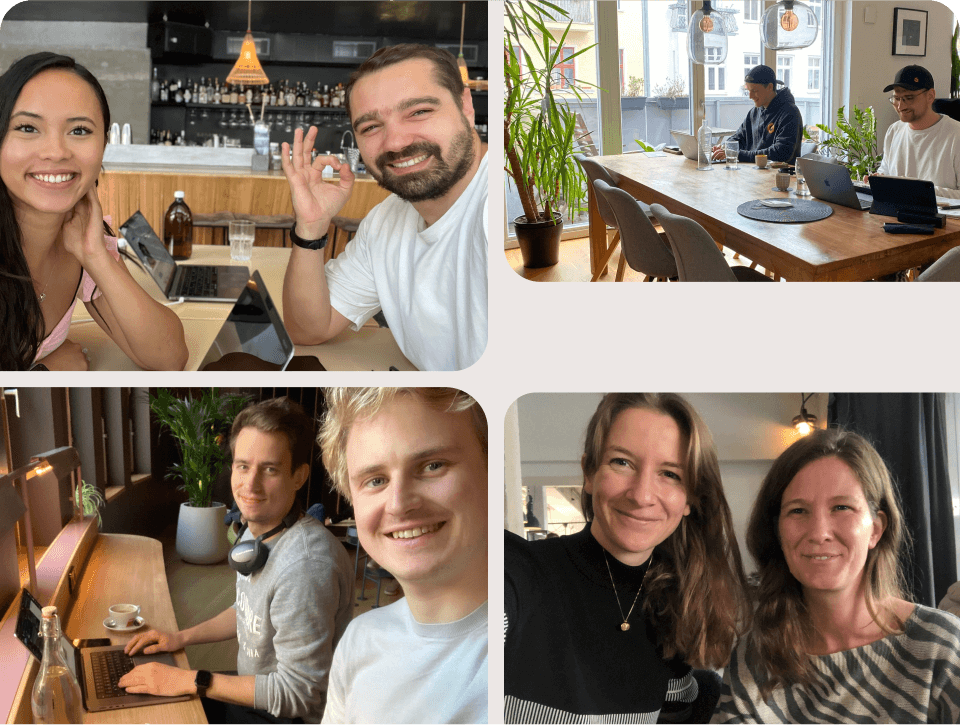
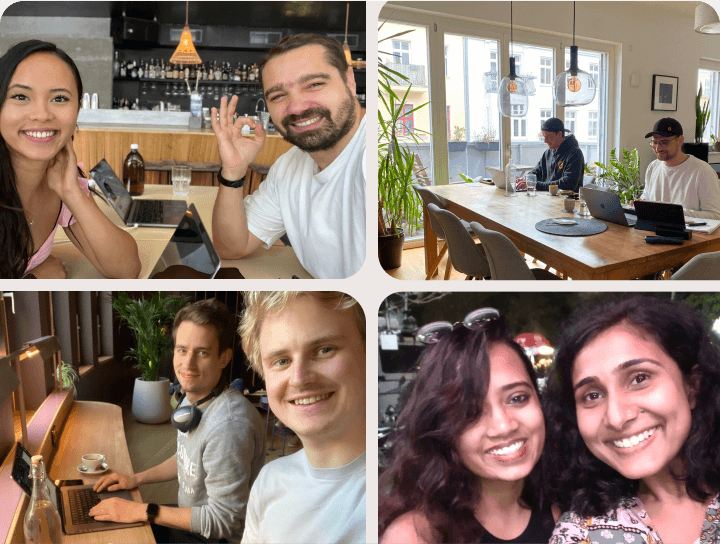
update the order of the images.

diff --git a/src/lib/contents/team.ts b/src/lib/contents/team.ts
@@ -129,12 +129,16 @@ export const photos: Image[] = [
     alt: "Co-working with other Gitpodders while travelling is always a highlight.",
   },
   {
-    src: "/images/team/life-2.png",
-    alt: "Working from outdoors.",
+    src: "/images/team/life-7.png",
+    alt: "At the company’s offsites we regularly get to meet everyone.",
   },
   {
     src: "/images/team/life-3.png",
     alt: "We love working from the cafès in our neighbourhood.",
+  },
+  {
+    src: "/images/team/life-2.png",
+    alt: "Working from outdoors.",
   },
   {
     src: "/images/team/life-4.png",
@@ -147,10 +151,6 @@ export const photos: Image[] = [
   {
     src: "/images/team/life-6.png",
     alt: "We are in good company.",
-  },
-  {
-    src: "/images/team/life-7.png",
-    alt: "At the company’s offsites we regularly get to meet everyone.",
   },
   {
     src: "/images/team/life-8.png",

diff --git a/src/routes/about/team.svelte b/src/routes/about/team.svelte
@@ -29,7 +29,7 @@
 <Header
   title="We’re the people behind Gitpod"
   text="Gitpod was founded in Germany. Now, it’s fully remote and distributed across the globe."
-  class="!max-w-none"
+  fullWidth={true}
 >
   <ImageLightDark
     image={{
@@ -38,7 +38,7 @@
       alt: "World Map of Gitpodders",
     }}
     slot="content"
-    class="mt-medium"
+    class="mt-x-small md:mt-medium w-full max-w-[925px] mx-auto"
   />
 </Header>
 
